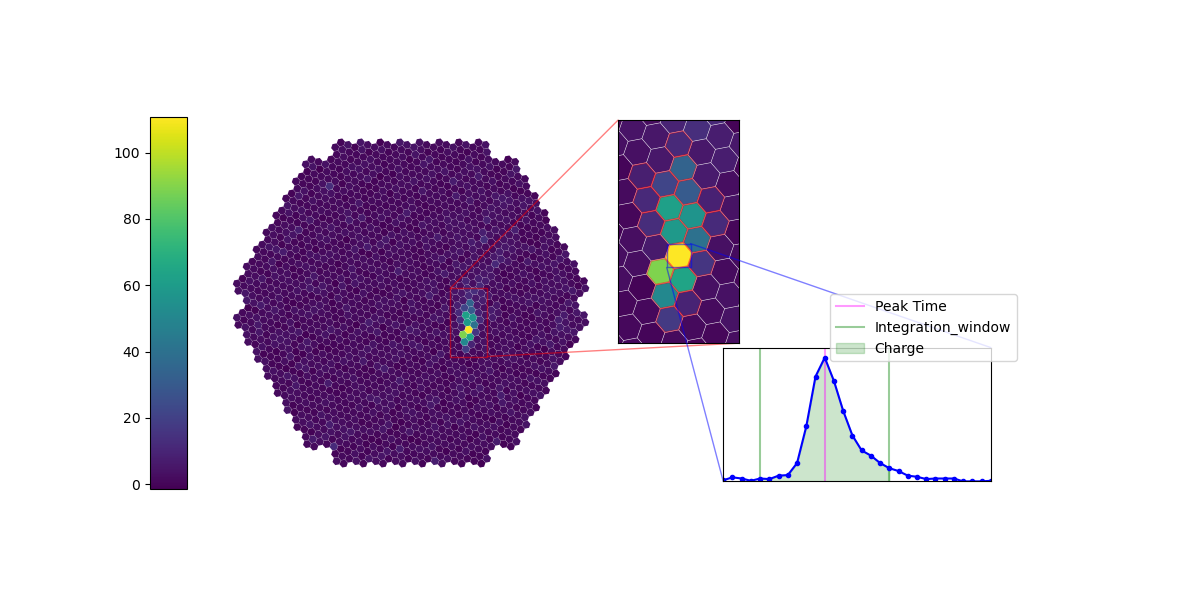
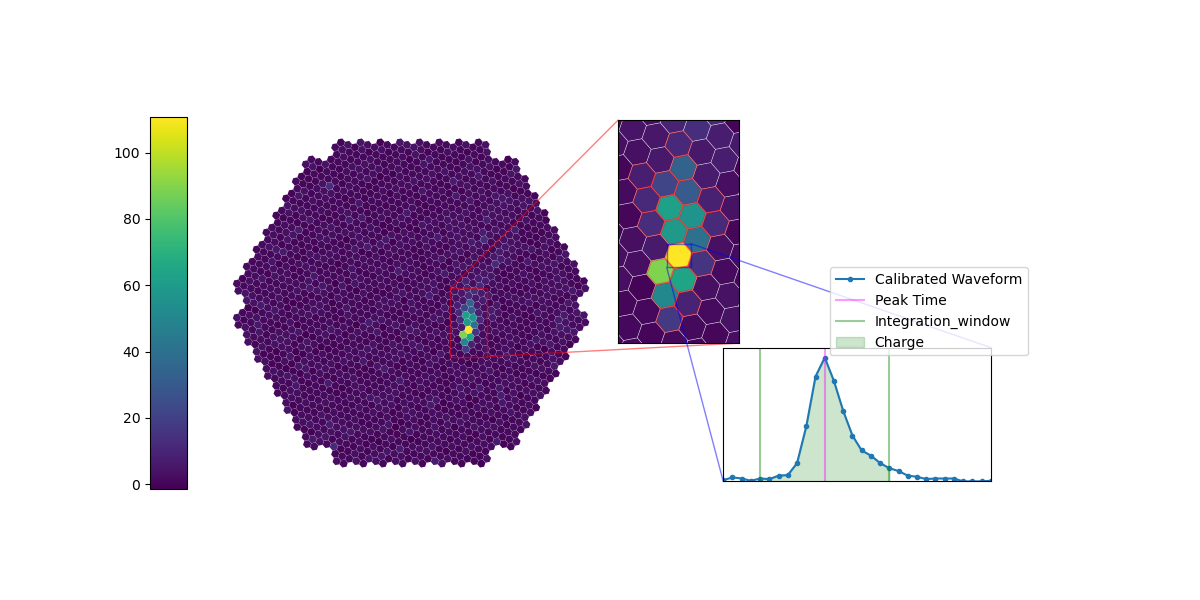
Clean up the code a little bit

diff --git a/iact_image/plot.py b/iact_image/plot.py
@@ -3,7 +3,7 @@ from matplotlib.collections import PatchCollection
 from ctapipe.instrument import PixelShape
 from matplotlib import pyplot as plt
 from astropy import units as u
-from matplotlib.patches import Ellipse, RegularPolygon, Rectangle, Circle
+from matplotlib.patches import RegularPolygon, Rectangle, Circle
 from ctapipe.io import EventSource, EventSeeker
 from ctapipe.image import tailcuts_clean, LocalPeakWindowSum
 from ctapipe.utils import get_dataset_path
@@ -14,7 +14,8 @@ import numpy as np
 
 class MYCameraDisplay(CameraDisplay):
     """
-    using the ctapipe camera display with slight adjustments
+    Based on the ctapipe camera display from
+    https://github.com/cta-observatory/ctapipe/blob/8851e1214409eac4564996cc0f4b76dfe05cf9cf/ctapipe/visualization/mpl_camera.py
     No title, axis labels and no autoscale
     """
 
@@ -23,27 +24,18 @@ class MYCameraDisplay(CameraDisplay):
         geometry,
         image=None,
         ax=None,
-        title=None,
         norm="lin",
         cmap=None,
-        allow_pick=False,
-        autoupdate=True,
         autoscale=True,
-        show_frame=True,
     ):
         self.axes = ax if ax is not None else plt.gca()
         self.pixels = None
         self.colorbar = None
-        self.autoupdate = autoupdate
         self.autoscale = autoscale
 
         self.geom = geometry
 
-        # initialize the plot and generate the pixels as a
-        # RegularPolyCollection
-
         patches = []
-
         if hasattr(self.geom, "mask"):
             self.mask = self.geom.mask
         else:
@@ -86,102 +78,132 @@ class MYCameraDisplay(CameraDisplay):
         self.pixel_highlighting.set_linewidth(0)
         self.axes.add_collection(self.pixel_highlighting)
 
-        # Set up some nice plot defaults
-
         self.axes.set_aspect("equal")
-        #self.axes.autoscale_view()
 
         if image is not None:
             self.image = image
         else:
             self.image = np.zeros_like(self.geom.pix_id, dtype=np.float64)
-
         self.norm = norm
         self.axes.xticks = None
 
 
 def main():
     # using toymodel would generate a nicer shower, but I want accurate waveforms as well
-    source = EventSource(get_dataset_path("gamma_test_large.simtel.gz"), max_events=100, back_seekable=True)
+    source = EventSource(get_dataset_path("gamma_test_large.simtel.gz"), max_events=100)
     seeker = EventSeeker(source)
+    # Define calibrator and extractor
+    # Calib should use the same extractor to be most accurate in the waveform plot
     ex = LocalPeakWindowSum(subarray=source.subarray)
-    calib = CameraCalibrator(subarray=source.subarray, image_extractor_type="LocalPeakWindowSum")
+    calib = CameraCalibrator(
+        subarray=source.subarray, image_extractor_type="LocalPeakWindowSum"
+    )
+    # A reasonable bright event, there might be better ones still
     event = seeker.get_event_index(91)
     calib(event)
-    
-    tel_id = 1 # LST-1
-    geom = source.subarray.tel[tel_id].camera.geometry
-    image=event.dl1.tel[tel_id].image
-    mask = tailcuts_clean(geom, image, 14, 7, 2)
-    # brightest pixel for second zoom
-    mask2 = np.zeros(len(image), dtype=bool)
-    mask2[np.argmax(image)] = True
 
-    fig, ax = plt.subplots(figsize=(12,6))
-    norm = "lin"
+    tel_id = 1  # LST-1
+    geom = source.subarray.tel[tel_id].camera.geometry
+    image = event.dl1.tel[tel_id].image
+
+    fig, ax = plt.subplots(figsize=(12, 6))
+    # d is our natural unit here, the width of one pixel
+    # Since all pixels are the same, we can use this to fine tune the view of the first zoom
     d = geom.pixel_width.value[0]
-    c1 = "red"
-    c2 = "blue"
+    norm = "lin"
+    color_shower_zoom = "red"
+    color_waveform_zoom = "blue"
+    color_extractor = "green"
+    color_waveform_peak = "magenta"
     # add space on the right for the inset axes
     ax.set_xlim(-1.5, 4.5)
     ax.set_ylim(-1.5, 1.5)
 
-    disp = MYCameraDisplay(geom, ax=ax, norm=norm)#, cmap="hot")
-    disp.image = image
-    disp.add_colorbar(location="left", fraction=.04, pad=.001, aspect=10)
+    main_cam_display = MYCameraDisplay(geom, ax=ax, norm=norm)
+    main_cam_display.image = image
+    # This is manually chosen to match the figure size!
+    main_cam_display.add_colorbar(location="left", fraction=0.04, pad=0.001, aspect=10)
     ax.spines.right.set_visible(False)
     ax.spines.top.set_visible(False)
     ax.spines.left.set_visible(False)
     ax.spines.bottom.set_visible(False)
     ax.set_xticks([])
     ax.set_yticks([])
-    
-    
-    axins = ax.inset_axes([0.45, 0.41, 0.2, 0.5])
-    disp2 = MYCameraDisplay(geom, ax=axins, norm=norm)
-    disp2.image = image
-    disp2.highlight_pixels(mask, alpha=0.4, color=c1)    
-    axins.set_xlim(geom.pix_x[mask].value.min()-d, geom.pix_x[mask].value.max()+d)
-    axins.set_ylim(geom.pix_y[mask].value.min()-d, geom.pix_y[mask].value.max()+d)
-    axins.set_xticks([])
-    axins.set_yticks([])
-    ax.indicate_inset_zoom(axins, edgecolor=c1)
 
-    
-    xl = geom.pix_x.value[np.argmax(image)] - d/2
-    xu = geom.pix_x.value[np.argmax(image)] + d/2
-    yl = geom.pix_y.value[np.argmax(image)] - d/2
-    yu = geom.pix_y.value[np.argmax(image)] + d/2
+    ax_shower_zoom = ax.inset_axes([0.45, 0.41, 0.2, 0.5])
+    zoomed_cam_display = MYCameraDisplay(geom, ax=ax_shower_zoom, norm=norm)
+    mask = tailcuts_clean(geom, image, 14, 7, 2)
+    zoomed_cam_display.image = image
+    zoomed_cam_display.highlight_pixels(mask, alpha=0.4, color=color_shower_zoom)
+    ax_shower_zoom.set_xlim(
+        geom.pix_x[mask].value.min() - d, geom.pix_x[mask].value.max() + d
+    )
+    ax_shower_zoom.set_ylim(
+        geom.pix_y[mask].value.min() - d, geom.pix_y[mask].value.max() + d
+    )
+    ax_shower_zoom.set_xticks([])
+    ax_shower_zoom.set_yticks([])
+    ax.indicate_inset_zoom(ax_shower_zoom, edgecolor=color_shower_zoom)
 
-    axwf = ax.inset_axes([0.6, 0.1, 0.3, 0.3])
-    axwf.set_xlim(xl, xu)
-    axwf.set_ylim(yl, yu)
-    axwf.set_xticks([])
-    axwf.set_yticks([])
-    axins.indicate_inset_zoom(axwf, edgecolor=c2)
-    wf = event.r1.tel[1].waveform[mask2][0, :]
-    
-    
-    # scale and shift the wf to fit the axes 
-    # this is a bit hacky, but we dont label the y-axis anyway
+    # Select the pixel
+    # This will select a square instead of a hexagon
+    # It would require some manual work to properly select the
+    # pixel, but would also avoid our scaling issues below
+    # Maybe at some point in the future
+    xl = geom.pix_x.value[np.argmax(image)] - d / 2
+    xu = geom.pix_x.value[np.argmax(image)] + d / 2
+    yl = geom.pix_y.value[np.argmax(image)] - d / 2
+    yu = geom.pix_y.value[np.argmax(image)] + d / 2
+    mask_brightest = np.zeros(len(image), dtype=bool)
+    mask_brightest[np.argmax(image)] = True
+
+    ax_waveform = ax.inset_axes([0.6, 0.1, 0.3, 0.3])
+    ax_waveform.set_xlim(xl, xu)
+    ax_waveform.set_ylim(yl, yu)
+    ax_waveform.set_xticks([])
+    ax_waveform.set_yticks([])
+    ax_shower_zoom.indicate_inset_zoom(ax_waveform, edgecolor=color_waveform_zoom)
+    wf = event.r1.tel[1].waveform[mask_brightest][0, :]
+
+    # Some hacks to make the waveform fit the axis limits
+    # We cant change the limits, because that would change the zoomed area
+    # This could be avoided by manually constructing this instead of relying
+    # on indicate_inset_zoom
     def adapt(x):
-        s = max(x) / (yu-yl)
-        x /= (1.1*s)
-        x += (yl-min(x))
+        s = max(x) / (yu - yl)
+        x /= 1.1 * s
+        x += yl - min(x)
         return x
+
     wf = adapt(wf)
     x = np.linspace(xl, xu, len(wf))
+
+    # These are indices, not the absolute values:
     peak = wf.argmax(axis=-1).astype(np.int64)
     left = peak - ex.window_width.tel[tel_id]
     right = peak + ex.window_width.tel[tel_id]
-    axwf.axvline(x[peak], color="magenta", label="Peak Time", alpha=.4)
-    axwf.axvline(x[left], color="green", label="Integration_window", alpha=.4)
-    axwf.axvline(x[right], color="green", alpha=.4)
-    axwf.fill_between(x[left:right+1],wf[left:right+1],min(wf) , color="green", alpha=0.2, label="Charge")
-    axwf.plot(x, wf, "b.-", )
-    axwf.legend(bbox_to_anchor=(0.4, 1.4), loc='upper left', borderaxespad=0.)
+
+    ax_waveform.plot(
+        x, wf, marker=".", color=color_waveform_zoom, label="Calibrated Waveform"
+    )
+    ax_waveform.axvline(
+        x[peak], color=color_waveform_peak, label="Peak Time", alpha=0.4
+    )
+    ax_waveform.axvline(
+        x[left], color=color_extractor, label="Integration_window", alpha=0.4
+    )
+    ax_waveform.axvline(x[right], color=color_extractor, alpha=0.4)
+    ax_waveform.fill_between(
+        x[left : right + 1],
+        wf[left : right + 1],
+        min(wf),
+        color=color_extractor,
+        alpha=0.2,
+        label="Charge",
+    )
+    ax_waveform.legend(bbox_to_anchor=(0.4, 1.6), loc="upper left", borderaxespad=0.0)
     fig.savefig("iact.png")
-    
+
 
 if __name__ == "__main__":
     main()

diff --git a/iact_image/README.md b/iact_image/README.md
@@ -3,4 +3,5 @@ I debated using inkscape, but ctapipe has such a nice CameraDisplay already...
 
 TODO:
 - Add requirements
-- Refactor that code. This is not how I want people to see me :cry:
+- Construct a nice svg?
+
